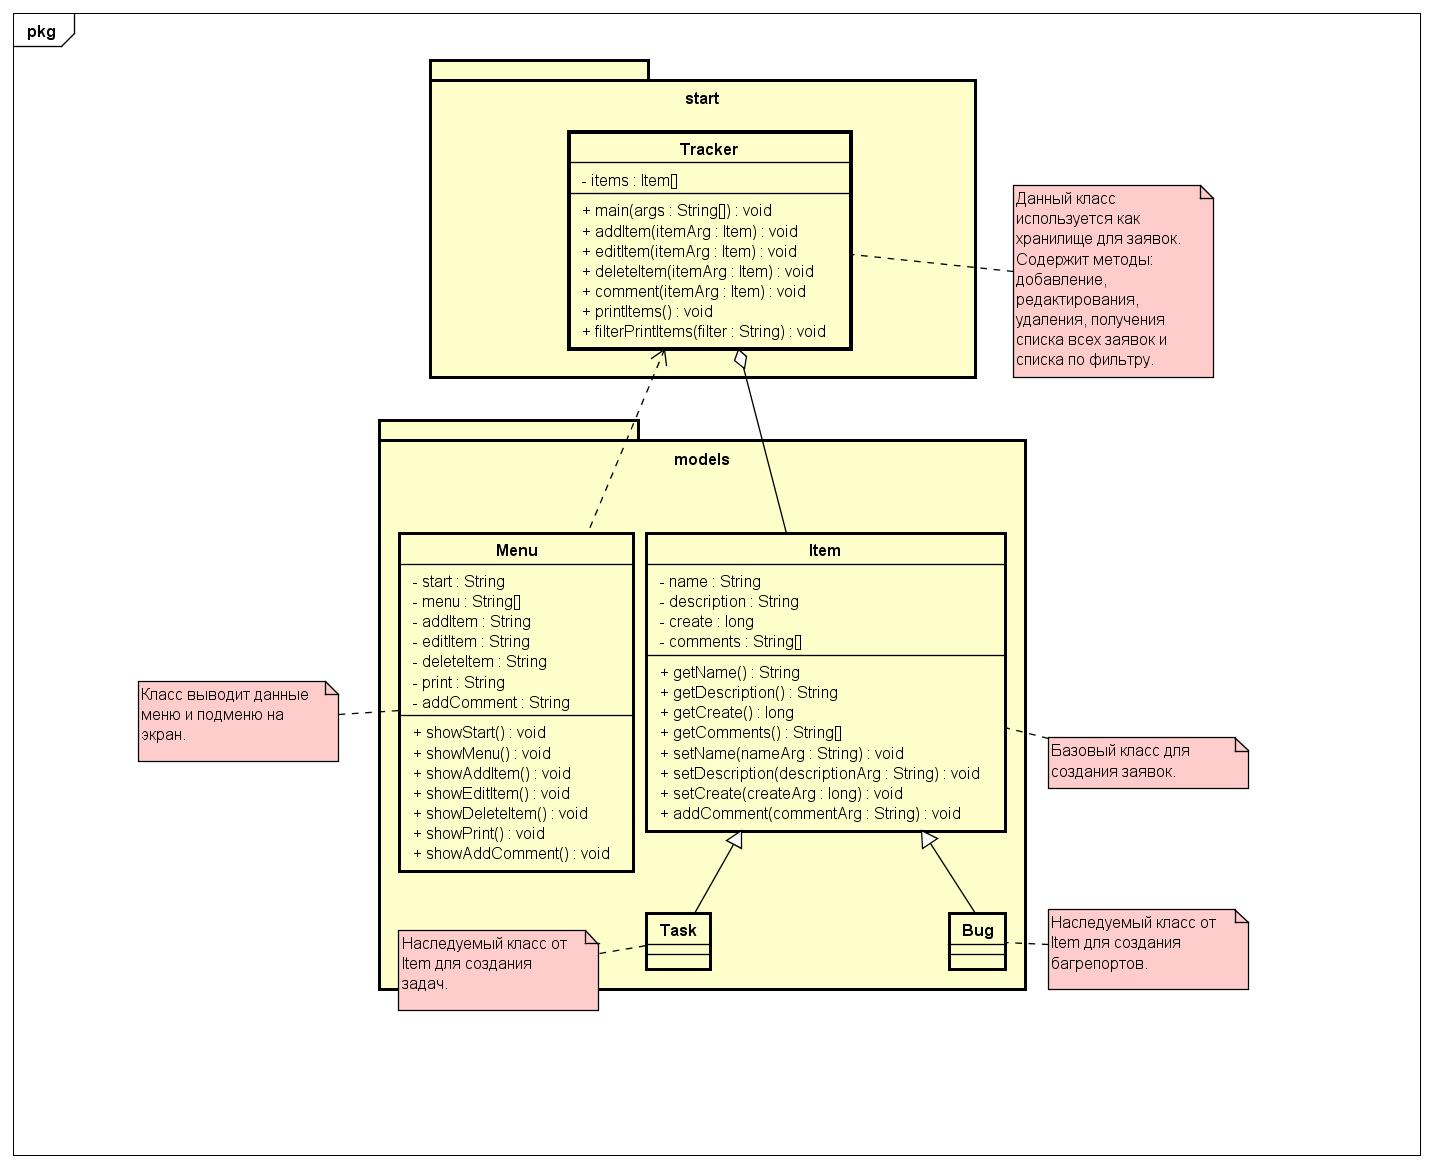
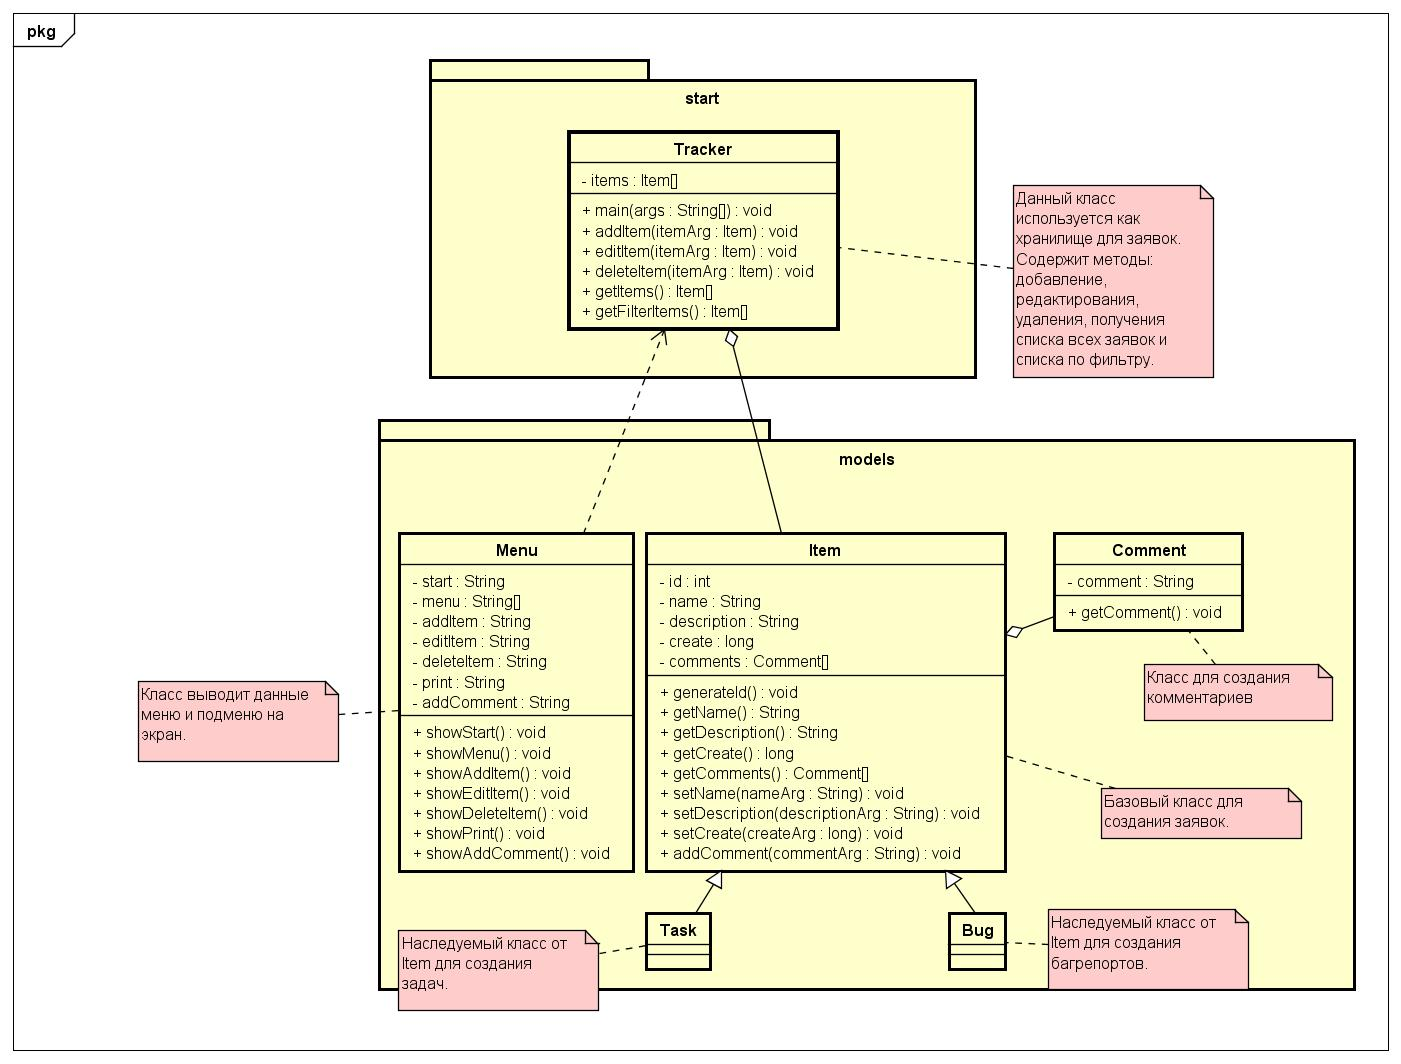
update Class diagram for Tracker, add tracker.java and models

diff --git a/chapter_002/tracker/src/main/java/ru/nkotkin/models/Item.java b/chapter_002/tracker/src/main/java/ru/nkotkin/models/Item.java
@@ -1,0 +1,62 @@
+package ru.nkotkin.models;
+
+/**
+ * Created by Nikolay Kotkin on 21.11.2016.
+ */
+public class Item {
+    /**
+     * Item name.
+     */
+    private String name;
+    /**
+     * Item description.
+     */
+    private String description;
+    /**
+     * Create date.
+     */
+    private long create;
+
+    /**
+     * Default constructor.
+     */
+    public Item() {
+    }
+
+    /**
+     * Constructor.
+     * @param nameArg        - set name
+     * @param descriptionArg - set description
+     * @param createArg      - set create time
+     */
+    public Item(final String nameArg, final String descriptionArg, final long createArg) {
+        this.name = nameArg;
+        this.description = descriptionArg;
+        this.create = createArg;
+    }
+
+    /**
+     * getter for name.
+     * @return string name
+     */
+    public final String getName() {
+        return this.name;
+    }
+
+    /**
+     * getter for description.
+     * @return string description
+     */
+    public final String getDescription() {
+        return this.description;
+    }
+
+    /**
+     * getter for create.
+     * @return long date
+     */
+    public final long getCreate() {
+        return this.create;
+    }
+
+}

diff --git a/chapter_002/tracker/src/main/java/ru/nkotkin/start/Tracker.java b/chapter_002/tracker/src/main/java/ru/nkotkin/start/Tracker.java
@@ -1,0 +1,40 @@
+package ru.nkotkin.start;
+
+import ru.nkotkin.models.Item;
+import ru.nkotkin.models.Task;
+import ru.nkotkin.models.Bug;
+
+/**
+ * Created by Nikolay Kotkin on 21.11.2016.
+ */
+final class Tracker {
+    /**
+     * Items list.
+     */
+    private Item[] items = new Item[100];
+
+    /**
+     * Default constructor.
+     */
+    private Tracker() {
+    }
+
+    /**
+     * Starter.
+     * @param args - command line args
+     */
+    public static void main(final String[] args) {
+        Tracker tracker = new Tracker();
+
+        tracker.items[0] = new Item("itemName", "itemDescription", 0L);
+        tracker.items[1] = new Task("taskName", "taskDescription", 0L);
+        tracker.items[2] = new Bug();
+
+        for (Item item : tracker.items) {
+            if (item instanceof Task) {
+                System.out.printf("%s ", ((Task) item).caclulatePrice());
+            }
+            System.out.printf("%s %s\n", item.getName(), item.getDescription());
+        }
+    }
+}

diff --git a/chapter_002/tracker/src/main/java/ru/nkotkin/models/Task.java b/chapter_002/tracker/src/main/java/ru/nkotkin/models/Task.java
@@ -1,0 +1,24 @@
+package ru.nkotkin.models;
+
+/**
+ * Created by Nikolay Kotkin on 21.11.2016.
+ */
+public class Task extends Item {
+    /**
+     * Constructor.
+     * @param nameArg - name
+     * @param descriptionArg - desc
+     * @param createArg - create date
+     */
+    public Task(final String nameArg, final String descriptionArg, final long createArg) {
+        super(nameArg, descriptionArg, createArg);
+    }
+
+    /**
+     * caclulatePrice.
+     * @return - 100%
+     */
+    public final String caclulatePrice() {
+        return "100%";
+    }
+}

diff --git a/chapter_002/tracker/src/main/java/ru/nkotkin/models/Bug.java b/chapter_002/tracker/src/main/java/ru/nkotkin/models/Bug.java
@@ -1,0 +1,7 @@
+package ru.nkotkin.models;
+
+/**
+ * Created by Nikolay Kotkin on 21.11.2016.
+ */
+public class Bug extends Item {
+}

diff --git a/chapter_002/tracker/src/main/java/ru/nkotkin/models/package-info.java b/chapter_002/tracker/src/main/java/ru/nkotkin/models/package-info.java
@@ -1,0 +1,4 @@
+/**
+ * Created by Nikolay Kotkin on 21.11.2016.
+ */
+package ru.nkotkin.models;

diff --git a/chapter_002/tracker/src/main/java/ru/nkotkin/start/package-info.java b/chapter_002/tracker/src/main/java/ru/nkotkin/start/package-info.java
@@ -1,0 +1,4 @@
+/**
+ * Created by Nikolay Kotkin on 21.11.2016.
+ */
+package ru.nkotkin.start;

diff --git a/chapter_002/tracker/src/test/java/ru/nkotkin/package-info.java b/chapter_002/tracker/src/test/java/ru/nkotkin/package-info.java
@@ -1,0 +1,4 @@
+/**
+ * Tracker. Tests.
+ */
+package ru.nkotkin;
